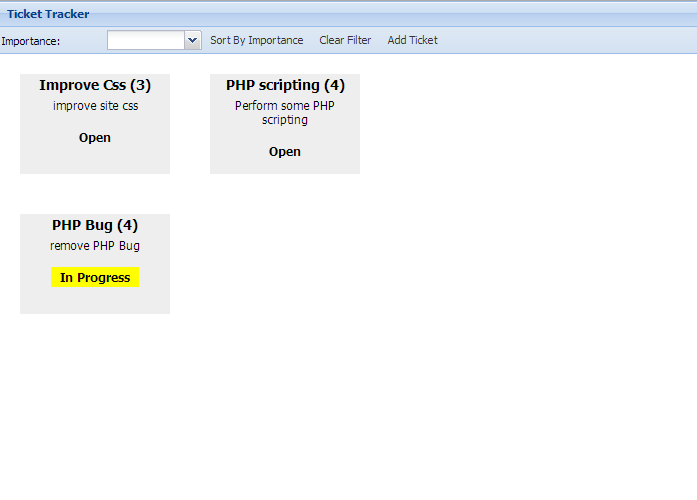
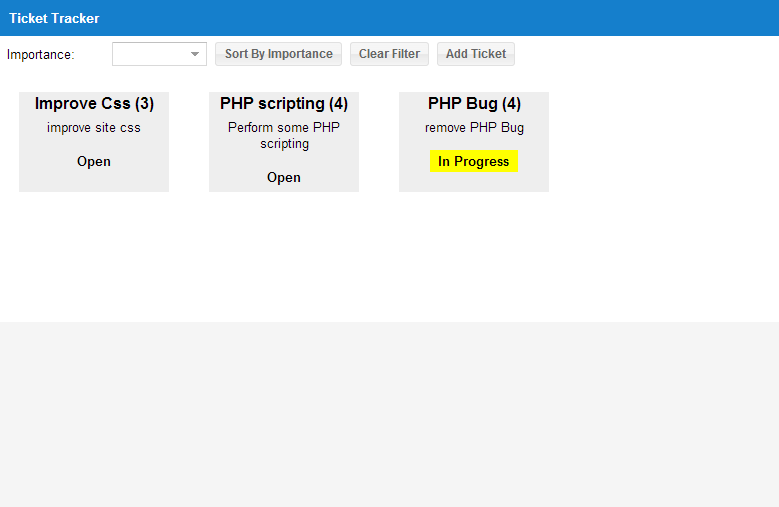
Removing unneeded settings from xds.  General cleanup.

diff --git a/Ext/StarterApps/TicketTracker/app.html b/Ext/StarterApps/TicketTracker/app.html
@@ -7,7 +7,8 @@
     <meta http-equiv="Content-Type" content="text/html; charset=utf-8" />
     <title>TicketTracker</title>
     <script src="http://cdn.sencha.com/ext/gpl/4.2.1/ext-all.js"></script>
-    <link rel="stylesheet" href="http://cdn.sencha.com/ext/gpl/4.2.1/resources/ext-theme-classic/ext-theme-classic-all.css">
+    <script src="http://cdn.sencha.com/ext/gpl/4.2.1/ext-theme-neptune.js"></script>
+    <link rel="stylesheet" href="http://cdn.sencha.com/ext/gpl/4.2.1/resources/ext-theme-neptune/ext-theme-neptune-all.css">
     <link rel="stylesheet" href="styles.css">
     <script type="text/javascript" src="app.js"></script>
 </head>

diff --git a/Ext/StarterApps/TicketTracker/app/view/TicketPanel.js b/Ext/StarterApps/TicketTracker/app/view/TicketPanel.js
@@ -21,8 +21,6 @@ Ext.define('TicketTracker.view.TicketPanel', {
         'TicketTracker.view.TicketDataView'
     ],
 
-    height: 500,
-    width: 700,
     title: 'Ticket Tracker',
 
     initComponent: function() {
@@ -68,7 +66,8 @@ Ext.define('TicketTracker.view.TicketPanel', {
             ],
             items: [
                 {
-                    xtype: 'ticketDataView'
+                    xtype: 'ticketDataView',
+                    width: 800
                 }
             ]
         });
